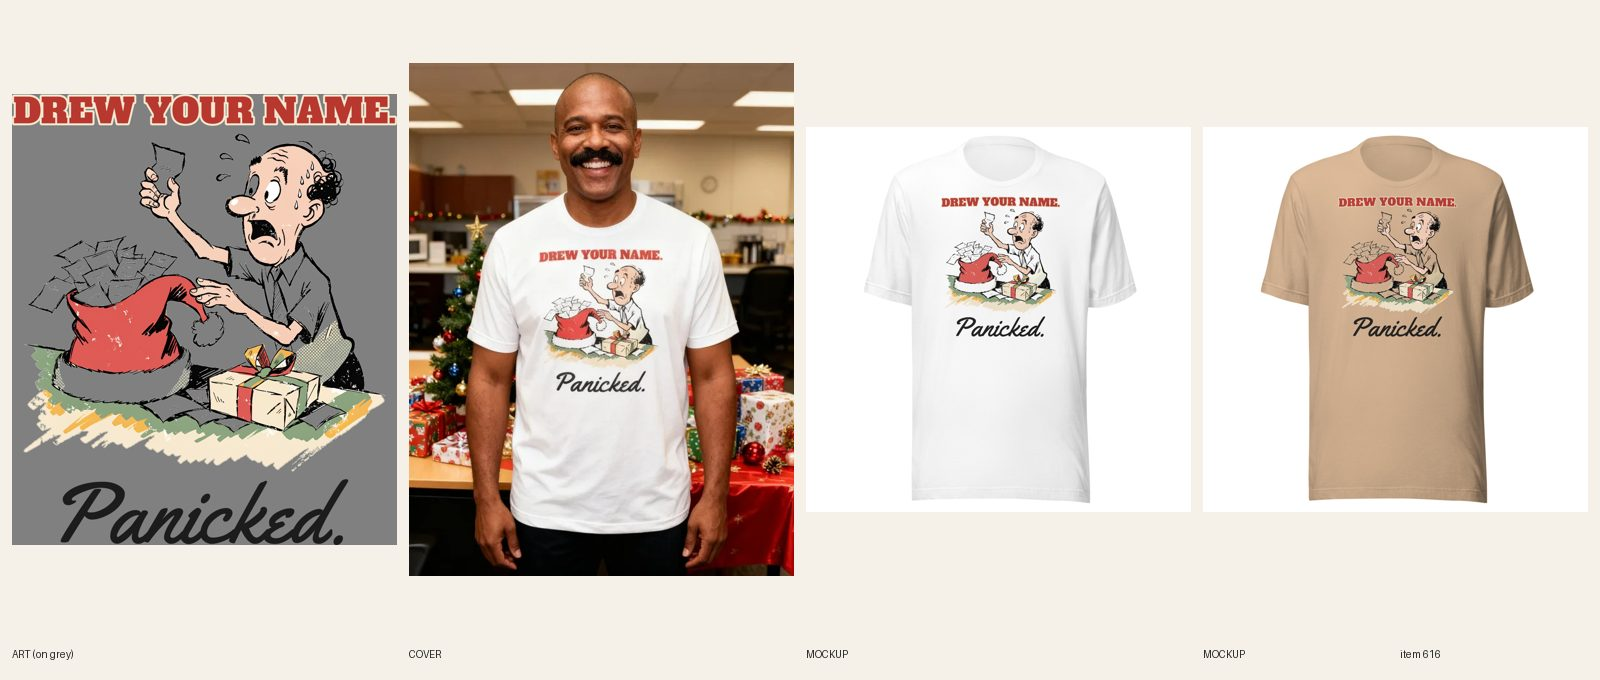
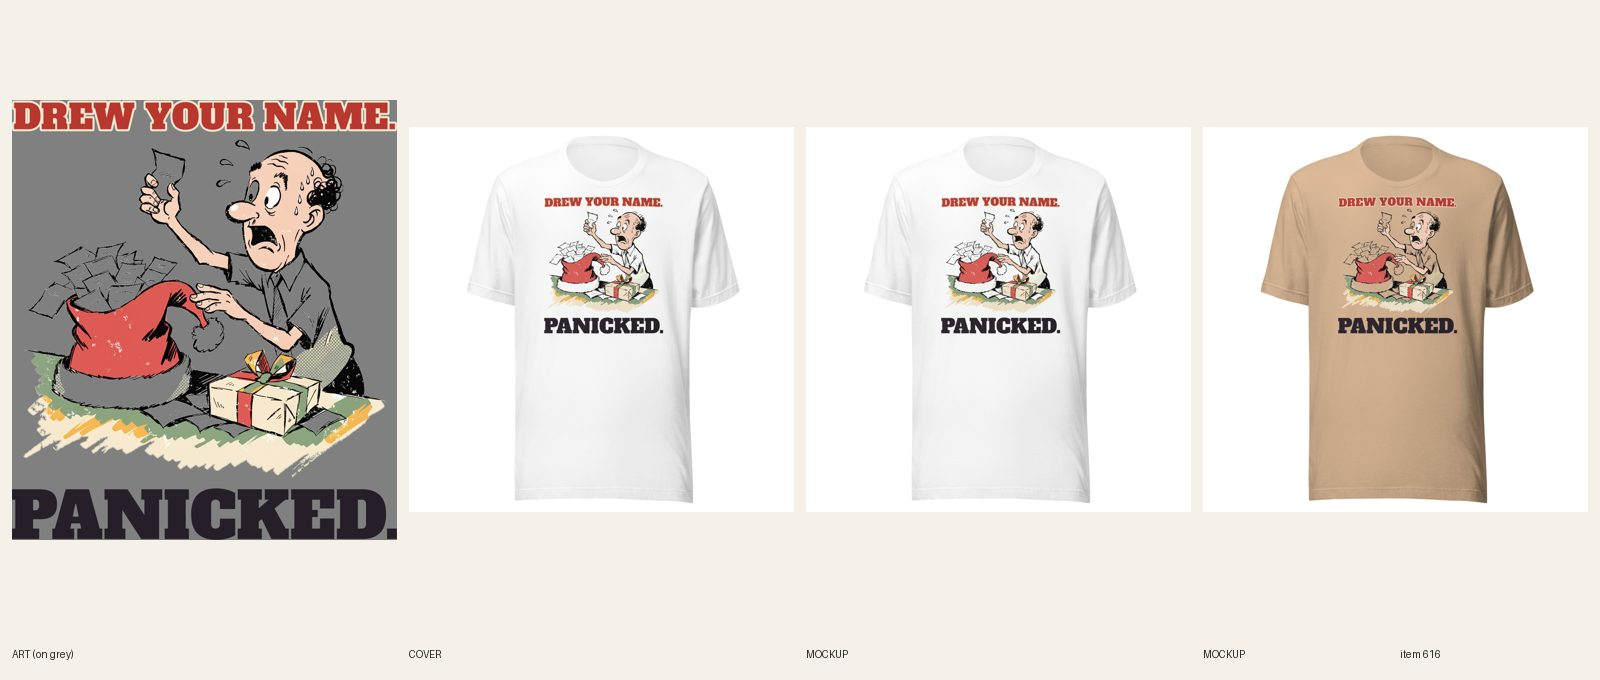
[A] review 616 (redo)
Claude-Session: https://claude.ai/code/session_01LaaEYpKaSBZd9opL7Tpo7i

Changed region(s): [[0.0, 0.0926, 0.5, 0.8647], [0.5625, 0.4632, 0.6875, 0.4941], [0.8125, 0.4632, 0.9062, 0.4941]]

diff --git a/docs/pipeline/616-christmas-tee-drew-your-name-panicked.md b/docs/pipeline/616-christmas-tee-drew-your-name-panicked.md
@@ -1,4 +1,4 @@
-status: REDO
+status: REVIEW
 lane: A
 type: new
 id: 616
@@ -35,3 +35,4 @@ kd: 9
 - 2026-10-20 10:40 UTC builder [A]: REDO copy-only done (director 2026-10-19 09:16; art, print file and cover untouched, no fal). 1. R2.11: primary re-targeted from "secret santa gift" to the measured garment phrase "office christmas shirts" (90 / KD 40, unowned): SEO title now "Office Christmas Shirt – Drew Your Name. Panicked. Tee" (54 chars), meta rewritten (office Christmas shirt, no leading Secret Santa gift), first sentence now says "This office Christmas shirt is for the guy who...", "Secret Santa gift" stays once in line one; docs/product-keyword-map.json updated (claimed: office christmas shirts, secret santa gift; gaps_measured gains office christmas shirts 90/40 and work christmas shirt 70/42). 2. R8.3: the "(a good Secret Santa gifts for men pick under the usual $25 limit)" aside is cut, replaced by "at $24.99 it fits the usual Secret Santa limit". Product stays DRAFT. audit --handle: only the expected not-active error. fal $0.
 - 2026-10-20 11:35 UTC director: approved from docs/review/616.jpg (copy-only redo), held at REVIEW (6-LIVE cap; still DRAFT, publish on Online Store, Headless, Google & YouTube when it goes LIVE). Copy reads naturally: 'office Christmas shirt' once in line one, SEO title and meta; every object named is in the art. Art A-grade as before.
 - 2026-10-20 13:45 UTC director: back to REDO (was approved/held as a copy-only redo): its print has the same Panicked. script punch at about 80% of the headline width (R3.7.8, quality-reset type bar). Port the re-lettered PANICKED. print from #617 when it's made, re-link, new mockups and sheet; copy stays. $0.
+- 2026-10-20 15:18 UTC builder [A]: REDO done (director 2026-10-20 13:45: type only, keep art and line; PANICKED. in a heavy display face, at least as wide as the headline). Re-lettered on the existing print (art, DREW YOUR NAME. headline and copy sentence untouched): PANICKED. now Alfa Slab One capitals, near-black (38,30,40) on the light-garment file. Widths (7h): headline ink 3064 px, PANICKED. ink 3064 px (100%); punch height 412 px against the headline's 253 px, so it is the loudest line. Print 3064x3505 (was 3064x3586). One file on every color: 1090398249 (FW 1650 TOP 75, tee sync 482799311). Relinked verified below (42/42). 6 fronts replaced in place (fileUpdate), phone-size read ok on White, Natural, Heather Dust, Athletic Heather, Ash, Tan. Copy: lettering sentence in the Story and FAQ 1 now say PANICKED. in black slab capitals as wide as the headline; title and SEO unchanged (line unchanged, 7i). Same print goes on the #617 crewneck so the pair matches. Plain product shot kept. fal $0. audit PASS; build ok.

diff --git a/docs/intake-log.md b/docs/intake-log.md
@@ -1,4 +1,5 @@
 RUNNING lane C since 2026-10-20 15:08 UTC
+2026-10-20 15:18 UTC — [A] Builder run: #616 PANICKED. re-lettered (heavy slab), 42/42 synced. REVIEW. fal $0.
 RUNNING lane E since 2026-10-20 14:20 UTC
 2026-10-20 15:05 UTC — [B] Builder run: redid #547 Women's Cropped tee (type only: BOOK BUYING BAN: / DAY ONE (AGAIN) heavy slab, same bookstore art, subject 66% of lockup, FW 1100, 45/45 synced). REVIEW. fal $0.
 2026-10-20 15:16 UTC — [A] Builder run: #615 Mom's Favorite crewneck (twin of #614), 12/12 synced. REVIEW. fal $0.
